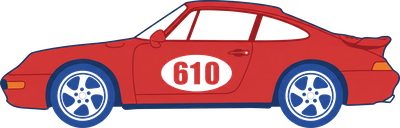
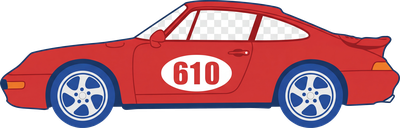
Fix 610 oval fill white + reduce car-to-text spacing
Used connected-component flood fill to only remove
border-connected white (background) while preserving
the white oval behind 610 on the car door. Reduced
hero-logo margin-bottom from 24px to 8px.

diff --git a/index.html b/index.html
@@ -103,7 +103,7 @@ section{padding:100px 0;position:relative}
 .about-img-badge{position:absolute;bottom:24px;left:24px;background:var(--blue);color:var(--white);padding:12px 20px;font-weight:700;font-size:var(--text-sm);letter-spacing:.06em;border-radius:4px}
 .about-text p{color:var(--white-50);margin-bottom:16px}
 .nav-logo img{height:40px;width:auto}
-.hero-logo{max-width:340px;width:100%;height:auto;margin:0 auto 24px;display:block;filter:drop-shadow(0 4px 20px rgba(0,0,0,.5))}
+.hero-logo{max-width:340px;width:100%;height:auto;margin:0 auto 8px;display:block;filter:drop-shadow(0 4px 20px rgba(0,0,0,.5))}
 
 /* SERVICES */
 .services{background:var(--navy)}